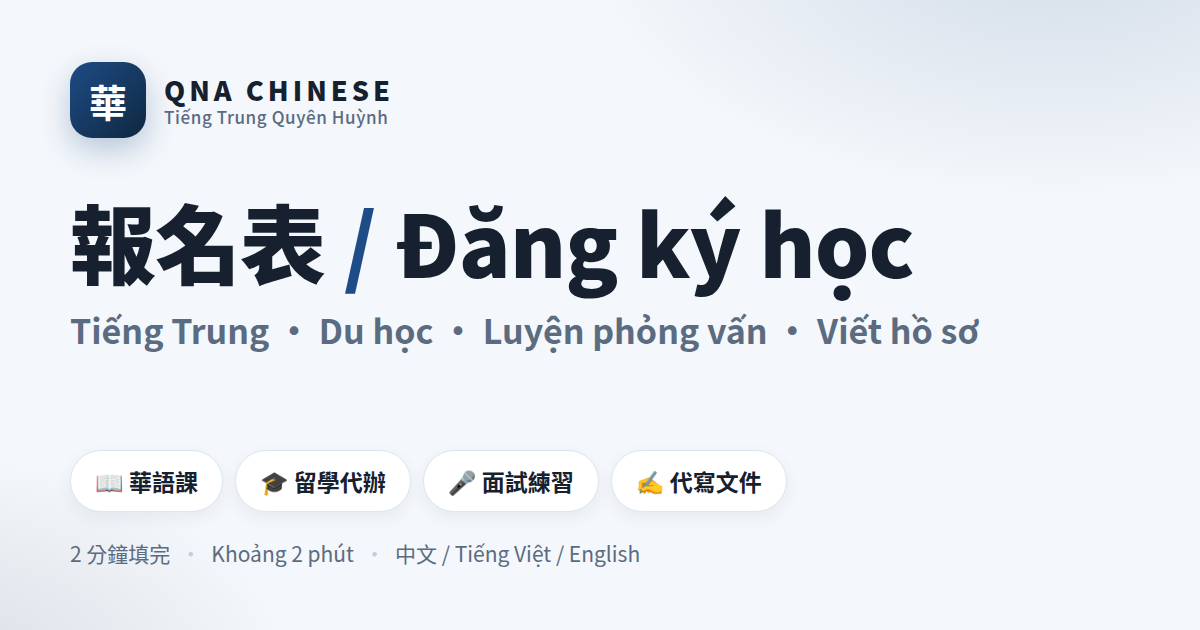
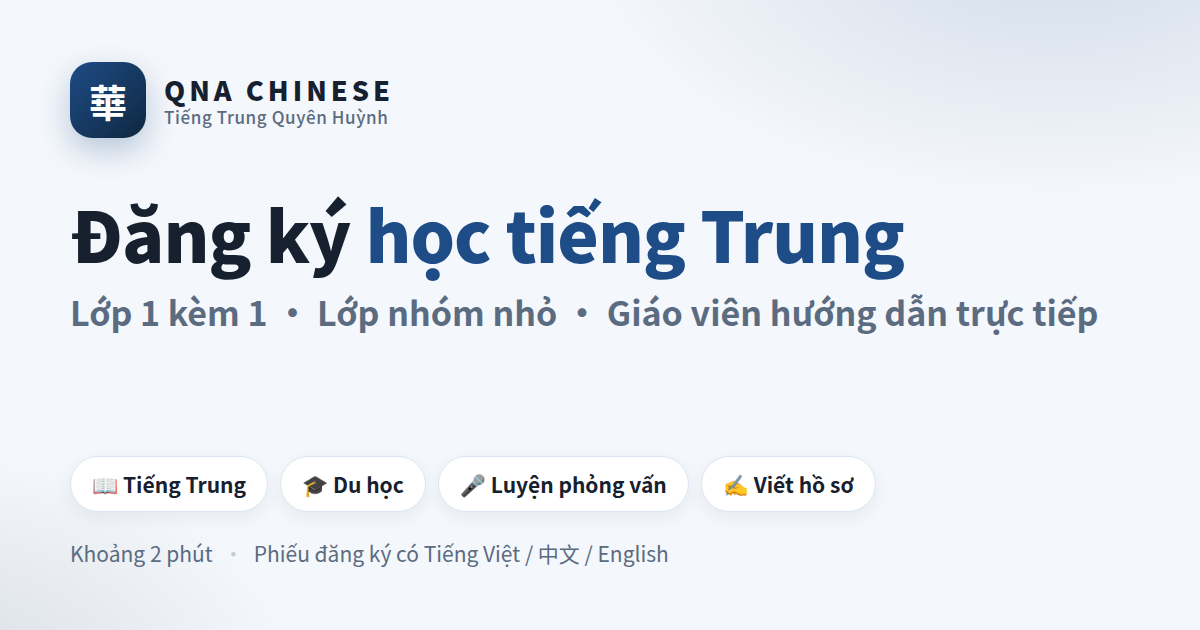
V1149 傳單與分享圖語言統一（越南文／中文各一版）

diff --git a/teacher.html b/teacher.html
@@ -9737,8 +9737,8 @@ H.qrSave=()=>{
     a.download='QNA_報名表_QR.png';a.click();toast('已下載 QR Code');
   }catch(e){toast('下載失敗：'+((e&&e.message)||e));}
 };
-/* FLYER_V1148 A4 招生傳單：QR 直接指到報名表，聯絡方式抓官網設定裡已經填的，
-   沒填的就不印，不自己編。開新分頁 → 列印／存成 PDF。 */
+/* FLYER_V1149 A4 招生傳單。一張紙只有一種語言：越南文版給學生看，中文版給台灣這邊看，
+   上面的鈕可以切。聯絡方式抓官網設定裡已經填的，沒填的就不印，不自己編。 */
 H.qrFlyer=()=>{
   const img=document.getElementById('qr-img');
   if(!img||!img.src)return toast('QR 還在產生，等一下再按');
@@ -9751,38 +9751,76 @@ H.qrFlyer=()=>{
   if(st.contact_line)rows.push(['LINE',st.contact_line]);
   if(st.contact_email)rows.push(['Email',st.contact_email]);
   const contact=rows.length?rows.map(r=>`<div class="c"><b>${esc2(r[0])}</b><span>${esc2(r[1])}</span></div>`).join(''):'';
+  const T={
+    vi:{h1:'Học tiếng Trung',h2:'trực tuyến 1 kèm 1',
+        sub:'Lớp 1 kèm 1 · Lớp nhóm nhỏ · Giáo viên hướng dẫn trực tiếp',
+        chips:['Tiếng Trung','Du học','Luyện phỏng vấn','Viết hồ sơ'],
+        steps:[['Quét mã QR','Dùng điện thoại quét mã bên dưới'],
+               ['Điền phiếu đăng ký','Khoảng 2 phút là xong'],
+               ['Giáo viên liên hệ xếp lớp','Cô sẽ chủ động liên hệ với bạn']],
+        qt:'Quét mã để đăng ký',qs:'Điền phiếu đăng ký, khoảng 2 phút.',
+        foot:'Phiếu đăng ký có Tiếng Việt / 中文 / English'},
+    zh:{h1:'線上華語課',h2:'一對一與小班',
+        sub:'一對一 · 小班 · 老師直接帶',
+        chips:['華語課','留學代辦','面試練習','代寫文件'],
+        steps:[['掃描 QR Code','用手機掃下面這個碼'],
+               ['填報名表','大約 2 分鐘填完'],
+               ['老師聯絡你安排課程','老師會主動跟你聯絡']],
+        qt:'掃描報名',qs:'手機掃一下就可以填報名表，2 分鐘填完。',
+        foot:'報名表有 中文 / Tiếng Việt / English'}};
+  const sheet=(k)=>{const t=T[k];
+    return `<div class="sheet s-${k}">
+  <div class="top"><div class="logo">華</div>
+    <div class="mk">QNA CHINESE<span>Tiếng Trung Quyên Huỳnh</span></div></div>
+  <h1>${t.h1}<br><em>${t.h2}</em></h1>
+  <div class="sub">${t.sub}</div>
+  <div class="chips">${t.chips.map(c=>`<div class="chip">${c}</div>`).join('')}</div>
+  <div class="steps">${t.steps.map((s,i)=>`<div class="step"><i>${i+1}</i><b>${s[0]}</b><small>${s[1]}</small></div>`).join('')}</div>
+  <div class="qrbox">
+    <div class="qr"><img src="${img.src}" alt="QR"></div>
+    <div>
+      <div class="qt">${t.qt}</div>
+      <div class="qs">${t.qs}</div>
+      <div class="url">${esc2(u)}</div>
+      <div class="cs">${contact}</div>
+    </div>
+  </div>
+  <div class="foot">${t.foot}　·　QNA CHINESE</div>
+</div>`;};
   const w=window.open('','_blank');
   if(!w)return toast('瀏覽器擋掉新分頁了，請允許彈出視窗');
   w.document.write(`<!doctype html><html lang="vi"><head><meta charset="utf-8">
-<title>QNA CHINESE \u00b7 \u62db\u751f\u50b3\u55ae</title>
+<title>QNA CHINESE · 招生傳單</title>
 <link rel="preconnect" href="https://fonts.googleapis.com"><link rel="preconnect" href="https://fonts.gstatic.com" crossorigin>
 <link href="https://fonts.googleapis.com/css2?family=Be+Vietnam+Pro:wght@400;600;700;800&family=Noto+Sans+TC:wght@400;500;700;900&display=swap" rel="stylesheet">
 <style>
 *{box-sizing:border-box;margin:0;padding:0}
 @page{size:A4;margin:0}
 body{font-family:"Be Vietnam Pro","Noto Sans TC","PingFang TC",system-ui,sans-serif;color:#16202E;background:#E9EEF5}
+body.zh{font-family:"Noto Sans TC","PingFang TC","Microsoft JhengHei","Be Vietnam Pro",system-ui,sans-serif}
+body.vi .s-zh,body.zh .s-vi{display:none}
 .sheet{width:210mm;height:297mm;margin:0 auto;background:#fff;padding:18mm 16mm;display:flex;flex-direction:column}
 .top{display:flex;align-items:center;gap:12px}
 .logo{width:56px;height:56px;border-radius:16px;background:linear-gradient(140deg,#1E4C86,#143A6B);color:#fff;
   display:grid;place-items:center;font-size:28px;font-weight:700;font-family:"Noto Sans TC",serif}
 .mk{font-size:20px;font-weight:800;letter-spacing:3px;line-height:1.3}
 .mk span{display:block;font-size:13px;font-weight:500;letter-spacing:.4px;color:#5B6B80}
-h1{margin-top:16mm;font-size:46px;font-weight:800;line-height:1.12;letter-spacing:-.5px}
+h1{margin-top:14mm;font-size:46px;font-weight:800;line-height:1.14;letter-spacing:-.5px}
+.s-zh h1{font-size:52px;letter-spacing:2px}
 h1 em{font-style:normal;color:#1E4C86}
-.zh{margin-top:8px;font-size:27px;font-weight:700;color:#5B6B80;font-family:"Noto Sans TC",sans-serif}
+.sub{margin-top:9px;font-size:21px;font-weight:600;color:#5B6B80}
 .chips{margin-top:9mm;display:flex;flex-wrap:wrap;gap:9px}
-.chip{border:1.5px solid #DCE5F0;background:#F4F7FB;border-radius:999px;padding:9px 17px;font-size:15px;font-weight:700}
-.chip small{display:block;font-weight:500;color:#5B6B80;font-size:12.5px;margin-top:1px}
-.steps{margin-top:11mm;display:flex;gap:6mm}
+.chip{border:1.5px solid #DCE5F0;background:#F4F7FB;border-radius:999px;padding:10px 20px;font-size:17px;font-weight:700}
+.steps{margin-top:10mm;display:flex;gap:6mm}
 .step{flex:1;background:#F4F7FB;border:1.5px solid #DCE5F0;border-radius:14px;padding:7mm 6mm}
 .step i{display:grid;place-items:center;width:34px;height:34px;border-radius:50%;background:#1E4C86;color:#fff;
   font-style:normal;font-size:17px;font-weight:800}
 .step b{display:block;margin-top:9px;font-size:17px;font-weight:700;line-height:1.35}
-.step small{display:block;margin-top:4px;font-size:13px;color:#5B6B80;line-height:1.5;font-family:"Noto Sans TC",sans-serif}
+.step small{display:block;margin-top:4px;font-size:13.5px;color:#5B6B80;line-height:1.5}
 .qrbox{margin-top:auto;display:flex;align-items:center;gap:10mm;border-top:2px solid #DCE5F0;padding-top:8mm}
 .qr{width:46mm;height:46mm;border:1.5px solid #DCE5F0;border-radius:12px;padding:3mm;background:#fff;flex:0 0 auto}
 .qr img{width:100%;height:100%;image-rendering:pixelated;display:block}
-.qt{font-size:23px;font-weight:800}
+.qt{font-size:25px;font-weight:800}
 .qs{margin-top:5px;font-size:15px;color:#5B6B80;line-height:1.55}
 .url{margin-top:7px;font-size:14px;font-weight:700;color:#1E4C86;word-break:break-all}
 .cs{margin-top:7mm;display:flex;flex-wrap:wrap;gap:6px 22px}
@@ -9790,39 +9828,21 @@ h1 em{font-style:normal;color:#1E4C86}
 .c b{color:#1E4C86;margin-right:6px}
 .c span{color:#16202E;word-break:break-all}
 .foot{margin-top:6mm;font-size:12.5px;color:#5B6B80;border-top:1px solid #DCE5F0;padding-top:4mm}
-.bar{max-width:210mm;margin:10px auto;text-align:center}
-.bar button{font:inherit;font-size:15px;font-weight:700;padding:10px 20px;border-radius:10px;border:0;
-  background:#1E4C86;color:#fff;cursor:pointer}
+.bar{max-width:210mm;margin:10px auto;display:flex;gap:8px;justify-content:center;align-items:center}
+.bar button{font:inherit;font-size:15px;font-weight:700;padding:10px 18px;border-radius:10px;border:1.5px solid #C0CEE0;
+  background:#fff;color:#16202E;cursor:pointer}
+.bar button.on{background:#1E4C86;border-color:#1E4C86;color:#fff}
+.bar button.go{background:#0F2740;border-color:#0F2740;color:#fff}
 @media print{.bar{display:none}body{background:#fff}.sheet{margin:0}}
-</style></head><body>
-<div class="bar"><button onclick="window.print()">\u{1F5A8} \u5217\u5370 / \u5b58\u6210 PDF</button></div>
-<div class="sheet">
-  <div class="top"><div class="logo">\u83ef</div>
-    <div class="mk">QNA CHINESE<span>Ti\u1EBFng Trung Quy\u1EC1n Hu\u1EF3nh</span></div></div>
-  <h1>Học tiếng Trung<br><em>trực tuyến 1 kèm 1</em></h1>
-  <div class="zh">\u7dda\u4e0a\u83ef\u8a9e\u8ab2\u3000\u00b7\u3000\u4e00\u5c0d\u4e00\u8207\u5c0f\u73ed</div>
-  <div class="chips">
-    <div class="chip">\u{1F4D6} Ti\u1EBFng Trung<small>\u83ef\u8a9e\u8ab2</small></div>
-    <div class="chip">\u{1F393} Du h\u1ECDc<small>\u7559\u5b78\u4ee3\u8fa6</small></div>
-    <div class="chip">\u{1F3A4} Luy\u1EC7n ph\u1ECFng v\u1EA5n<small>\u9762\u8a66\u7df4\u7fd2</small></div>
-    <div class="chip">\u270D\uFE0F Vi\u1EBFt h\u1ED3 s\u01A1<small>\u4ee3\u5beb\u6587\u4ef6</small></div>
-  </div>
-  <div class="steps">
-    <div class="step"><i>1</i><b>Qu\u00E9t m\u00E3 QR</b><small>\u7528\u624b\u6a5f\u6383\u4e0b\u9762\u7684 QR Code</small></div>
-    <div class="step"><i>2</i><b>\u0110i\u1EC1n phi\u1EBFu \u0111\u0103ng k\u00FD</b><small>\u586b\u5831\u540d\u8868\uff0c\u5927\u7d04 2 \u5206\u9418</small></div>
-    <div class="step"><i>3</i><b>Gi\u00E1o vi\u00EAn li\u00EAn h\u1EC7 x\u1EBFp l\u1EDBp</b><small>\u8001\u5e2b\u6703\u4e3b\u52d5\u8ddf\u4f60\u806f\u7d61\u3001\u5b89\u6392\u8ab2\u7a0b</small></div>
-  </div>
-  <div class="qrbox">
-    <div class="qr"><img src="${img.src}" alt="QR"></div>
-    <div>
-      <div class="qt">Qu\u00E9t m\u00E3 \u0111\u1EC3 \u0111\u0103ng k\u00FD</div>
-      <div class="qs">\u624b\u6a5f\u6383\u4e00\u4e0b\u5c31\u53ef\u4ee5\u586b\u5831\u540d\u8868\uff0c2 \u5206\u9418\u586b\u5b8c\u3002<br>\u0110i\u1EC1n phi\u1EBFu \u0111\u0103ng k\u00FD, kho\u1EA3ng 2 ph\u00FAt.</div>
-      <div class="url">${esc2(u)}</div>
-      <div class="cs">${contact}</div>
-    </div>
-  </div>
-  <div class="foot">\u4e2d\u6587 / Ti\u1EBFng Vi\u1EC7t / English \u3000\u00b7\u3000 QNA CHINESE</div>
-</div></body></html>`);
+</style></head><body class="vi">
+<div class="bar">
+  <span style="font-size:14px;color:#5B6B80">這張傳單印哪一種：</span>
+  <button id="bvi" class="on" onclick="document.body.className='vi';bvi.className='on';bzh.className=''">Tiếng Việt 越南文</button>
+  <button id="bzh" onclick="document.body.className='zh';bzh.className='on';bvi.className=''">中文</button>
+  <button class="go" onclick="window.print()">🖨 列印 / 存成 PDF</button>
+</div>
+${sheet('vi')}${sheet('zh')}
+</body></html>`);
   w.document.close();
 };
 H.leadF=(v)=>{const i=String(v||'').indexOf(':');if(i<0)return;
